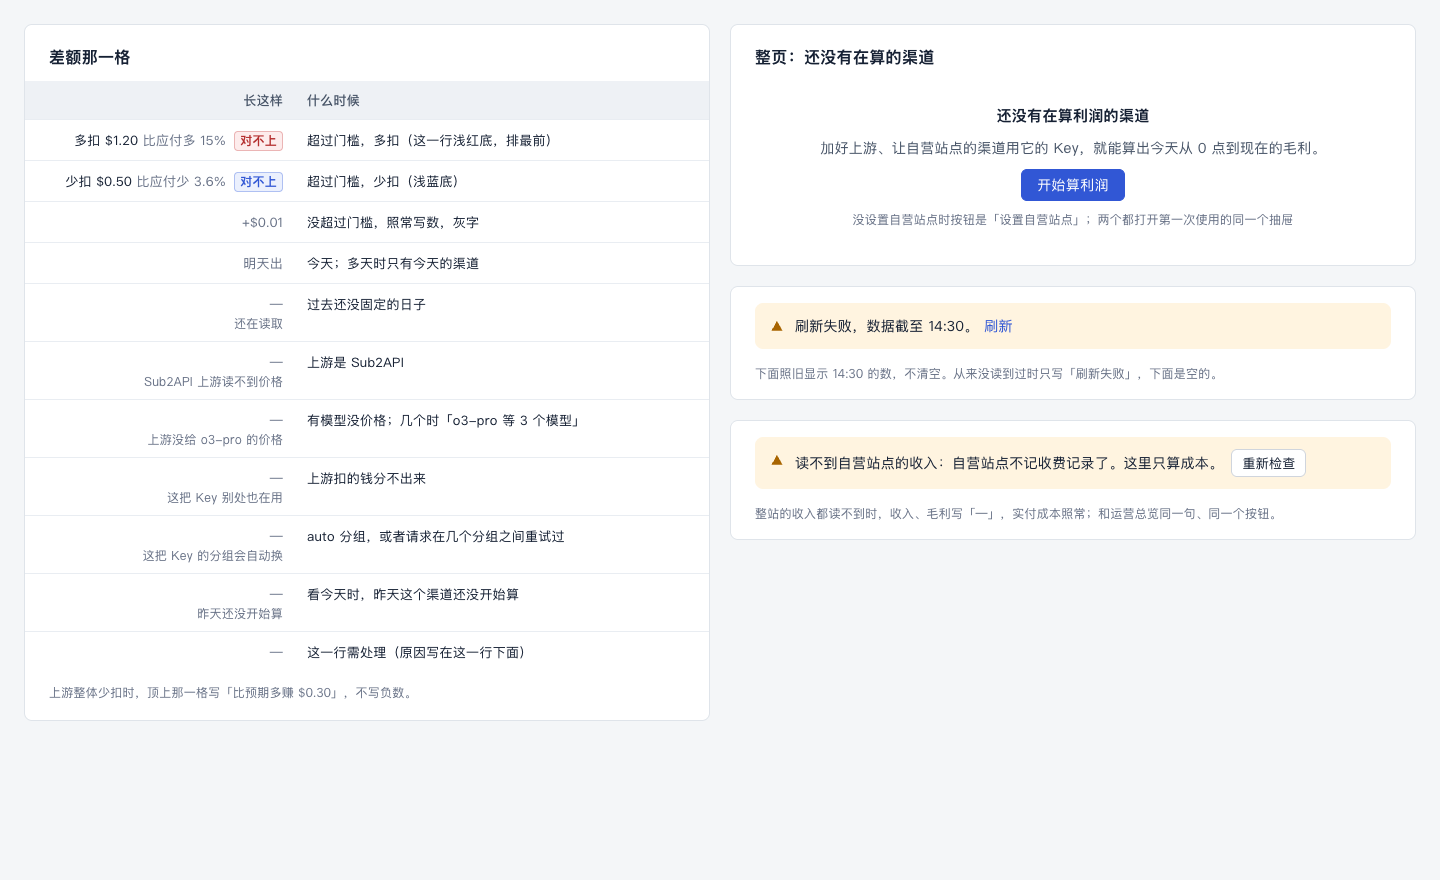
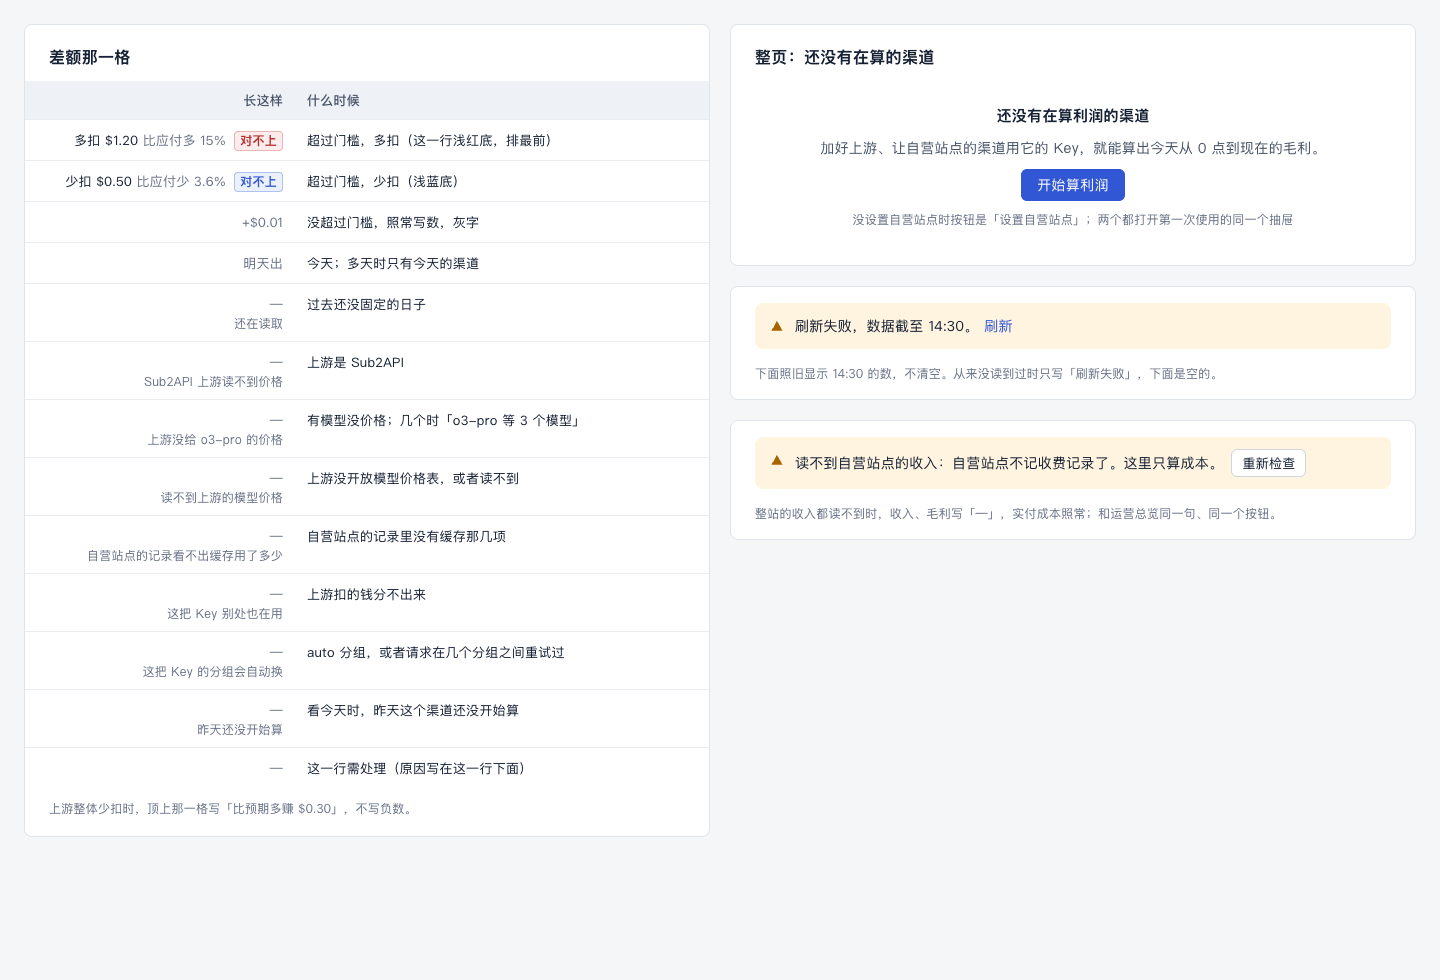
A 样稿：差额那一格加两个原因

diff --git a/design/ux/daily-profit-a.html b/design/ux/daily-profit-a.html
@@ -619,7 +619,7 @@ td.why { max-width: 240px; }
 
 <!-- ═══ dpa-states ═══ -->
 <p class="frame-label" style="width:1440px">dpa-states · 差额那一格的各种写法，和整页的空、刷新失败</p>
-<section class="frame" id="dpa-states" style="width:1440px;height:880px">
+<section class="frame" id="dpa-states" style="width:1440px;height:980px">
   <div style="display:grid;grid-template-columns:1fr 1fr;gap:20px;padding:24px">
     <section class="panel">
       <div class="panel-head" style="padding-bottom:12px"><h2>差额那一格</h2></div>
@@ -633,6 +633,8 @@ td.why { max-width: 240px; }
           <tr><td class="dash">—<small>还在读取</small></td><td>过去还没固定的日子</td></tr>
           <tr><td class="dash">—<small>Sub2API 上游读不到价格</small></td><td>上游是 Sub2API</td></tr>
           <tr><td class="dash">—<small>上游没给 o3-pro 的价格</small></td><td>有模型没价格；几个时「o3-pro 等 3 个模型」</td></tr>
+          <tr><td class="dash">—<small>读不到上游的模型价格</small></td><td>上游没开放模型价格表，或者读不到</td></tr>
+          <tr><td class="dash">—<small>自营站点的记录看不出缓存用了多少</small></td><td>自营站点的记录里没有缓存那几项</td></tr>
           <tr><td class="dash">—<small>这把 Key 别处也在用</small></td><td>上游扣的钱分不出来</td></tr>
           <tr><td class="dash">—<small>这把 Key 的分组会自动换</small></td><td>auto 分组，或者请求在几个分组之间重试过</td></tr>
           <tr><td class="dash">—<small>昨天还没开始算</small></td><td>看今天时，昨天这个渠道还没开始算</td></tr>
